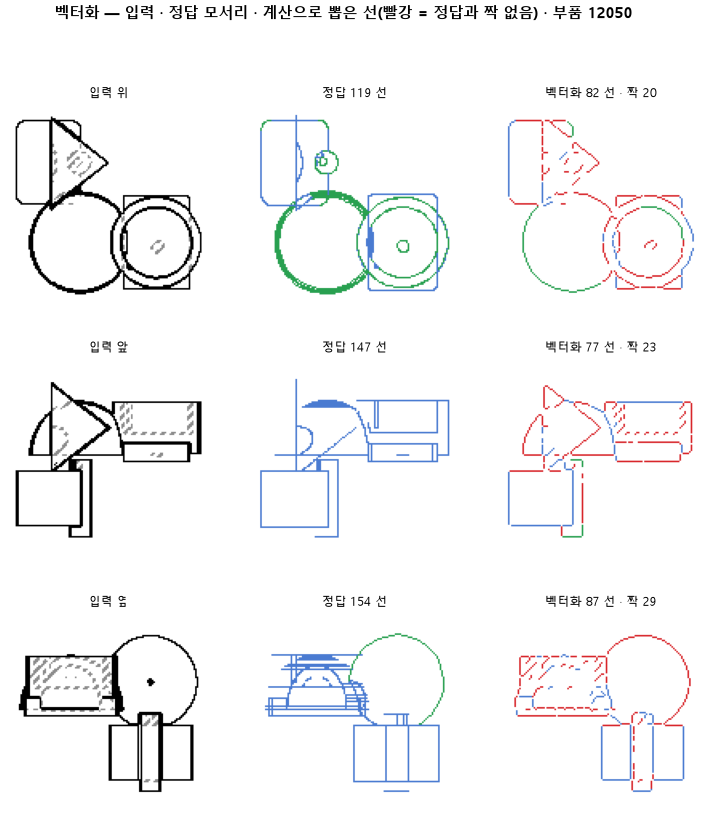
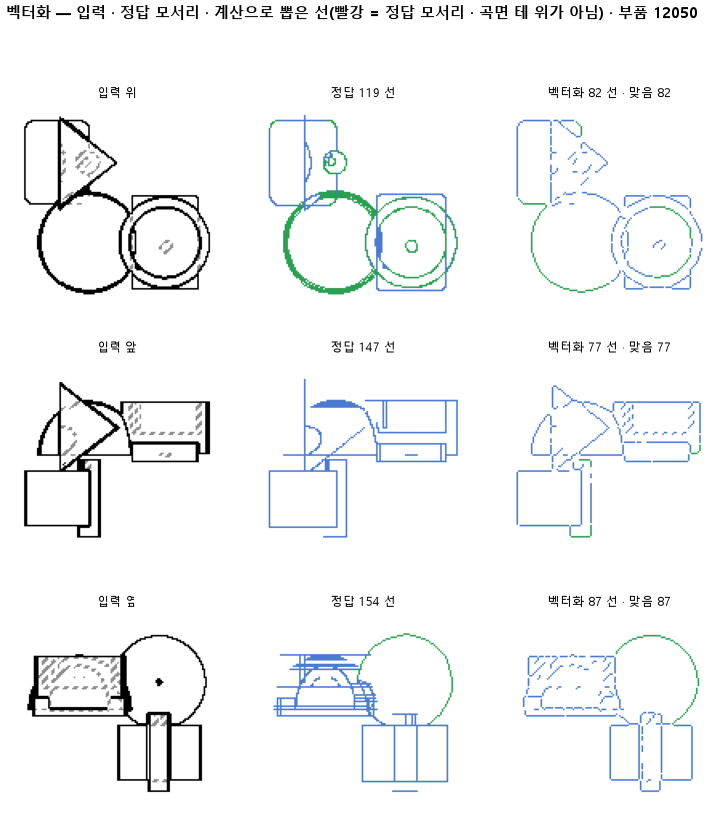
판 140벡터화 — 칠한 선 화소를 꼭짓점에서 끊어 선 목록으로 바꾼다 — 탐색 — 이김 판정 없음 · 기준 못 넘음
하네스 자동 · 보고서 하네스/판/140벡터화/보고.html · 가지 A4

diff --git a/docs/판/140벡터화/보고.html b/docs/판/140벡터화/보고.html
@@ -45,7 +45,7 @@ td.왼{text-align:left;white-space:normal}tr.깊2 td:first-child{padding-left:30
 article.분석{max-width:70ch;font-size:1.02rem;line-height:1.8}article.분석 h3{font-size:1.12rem;margin:28px 0 8px}article.분석 p{margin:0 0 14px}article.분석 ul,article.분석 ol{margin:0 0 14px;padding-left:1.3em}article.분석 li{margin:4px 0}article.분석 img{max-width:100%;height:auto;border:1px solid var(--rule);border-radius:10px;margin:8px 0 4px}article.분석 em{color:var(--muted)}article.분석 figure{margin:8px 0 18px}article.분석 figcaption{font-size:.95rem;color:var(--ink);font-weight:600;margin-top:6px;padding-left:10px;border-left:3px solid var(--rule)}article.분석 table{border-collapse:collapse;margin:0 0 14px}article.분석 td,article.분석 th{border-bottom:1px solid var(--rule);padding:6px 12px;text-align:left}
 .명제{margin:0 0 12px;color:var(--muted);font-size:.95rem;max-width:72ch}.명제 span{font-weight:700;color:var(--ink);margin-right:6px}.쇼츠틀{display:grid;grid-template-columns:260px minmax(0,1fr);gap:20px;align-items:start}.쇼츠{width:260px;max-width:100%;border-radius:12px;border:1px solid var(--rule);background:#000}.쇼츠글 td{white-space:normal}@media (max-width:640px){.쇼츠틀{grid-template-columns:1fr}}.구조틀{background:var(--sheet);border:1px solid var(--rule);border-radius:12px;padding:12px;overflow-x:auto}.구조도{display:block;width:100%;min-width:720px;height:auto}.구조틀{background:#fbfaf6}.구조도 text{font-family:inherit;fill:var(--ink)}.구조도 .제{font-size:15px;font-weight:700}.구조도 .작{font-size:12px;fill:var(--muted)}.구조도 .작진{font-size:13px;font-weight:600}.구조도 .묶{font-size:13px;font-weight:600;fill:var(--muted)}
 @media (max-width:640px){main{padding:32px 16px 64px}th,td{padding:8px 10px}h2{margin-top:44px}}
-</style></head><body><main style="--n:4"><header><nav class="뒤"><a href="../../index.html"><svg viewBox="0 0 16 16" aria-hidden="true"><path d="M10 3.5L5.5 8l4.5 4.5" fill="none" stroke="currentColor" stroke-width="2" stroke-linecap="round" stroke-linejoin="round"/></svg>판 목록</a></nav><h1>칠한 선 화소를 꼭짓점에서 끊어 선 목록으로 바꾼다</h1><span class="판정 탐색"><svg viewBox="0 0 16 16" aria-hidden="true"><path d="M3.5 8.5l3 3 6-7" fill="none" stroke="currentColor" stroke-width="2" stroke-linecap="round" stroke-linejoin="round"/></svg>탐색 — 이김 판정 없음 · 기준 못 넘음</span><dl class="meta"><div><dt>판</dt><dd>140벡터화</dd></div><div><dt>가지</dt><dd>A4</dd></div><div><dt>종류</dt><dd>탐색</dd></div><div><dt>바뀐 손잡이</dt><dd>목표: CAD → 벡터화, 벡터화.휨문턱: None → 2.0, 벡터화.입력판: None → 137전부합침</dd></div><div><dt>에폭</dt><dd>10</dd></div><div><dt>대조</dt><dd>정답선지도</dd></div><div><dt>git</dt><dd>1f22833</dd></div><div><dt>날짜</dt><dd>2026-10-24 10:34</dd></div></dl></header><h2>분석</h2><article class="분석"><h3>한 줄로</h3>
+</style></head><body><main style="--n:4"><header><nav class="뒤"><a href="../../index.html"><svg viewBox="0 0 16 16" aria-hidden="true"><path d="M10 3.5L5.5 8l4.5 4.5" fill="none" stroke="currentColor" stroke-width="2" stroke-linecap="round" stroke-linejoin="round"/></svg>판 목록</a></nav><h1>칠한 선 화소를 꼭짓점에서 끊어 선 목록으로 바꾼다</h1><span class="판정 탐색"><svg viewBox="0 0 16 16" aria-hidden="true"><path d="M3.5 8.5l3 3 6-7" fill="none" stroke="currentColor" stroke-width="2" stroke-linecap="round" stroke-linejoin="round"/></svg>탐색 — 이김 판정 없음 · 기준 못 넘음</span><dl class="meta"><div><dt>판</dt><dd>140벡터화</dd></div><div><dt>가지</dt><dd>A4</dd></div><div><dt>종류</dt><dd>탐색</dd></div><div><dt>바뀐 손잡이</dt><dd>벡터화.휨문턱: None → 2.0, 목표: CAD → 벡터화, 벡터화.입력판: None → 137전부합침</dd></div><div><dt>에폭</dt><dd>10</dd></div><div><dt>대조</dt><dd>정답선지도</dd></div><div><dt>git</dt><dd>7e1cf5f</dd></div><div><dt>날짜</dt><dd>2026-10-24 10:49</dd></div></dl></header><h2>분석</h2><article class="분석"><h3>한 줄로</h3>
 <p><strong>물음</strong>: 칠한 선 화소를 갈림길과 끝점에서 끊는 계산만으로, 도면을 선 목록으로 바꿀 수 있을까?</p>
 <p><strong>답</strong>: 바꾸지 못했다. 정답 모서리를 여섯에 하나꼴로만 찾았다. 정답 선지도를 넣어도 결과가 거의 같았다. 그러니 지금은 계산이 걸림돌이다. 판 137의 칠이 괜찮은지는 아직 모른다. 기준 넷 중 둘을 못 넘었고, 판정은 실패다.</p>
 <h3>왜 이 판을 했나</h3>
@@ -113,4 +113,4 @@ article.분석{max-width:70ch;font-size:1.02rem;line-height:1.8}article.분석 h
 <li>정답 선지도 몇 장에 뼈대, 끊은 자리, 정답 모서리를 겹쳐 그려 어디서 놓치는지 본다.</li>
 <li>짝 거리를 넓혀 다시 재서 선이 밀린 탓인지 확인하고, 꺾이는 꼭짓점에서도 끊어 본다.</li>
 <li>조각 수 평균을 무엇으로 나누는지 확인하고, 아래 한계를 둔다.</li>
-</ol></article><h2>모델 동작</h2><figure class="개념"><video src="개념.mp4" autoplay loop muted playsinline style="width:100%;max-width:880px;border:1px solid var(--rule);border-radius:10px"></video><figcaption class="주석">이 판 모델이 화소 하나를 판정하는 과정을 기계로 그린 그림(하네스/개념그림/vec140) · <a href="개념.gif">gif</a></figcaption></figure><h2>판정 기준</h2><p class="명제"><span>명제</span> 판 137 이 칠한 시험 부품 299 개의 선 화소를 뼈대 · 꼭짓점 · 가지 · 휨 계산만으로 선 목록으로 바꾸면, 정답 모서리(CAD 투영)의 90 % 이상과 2 화소 안에서 짝이 맞고(정밀도 함께 F1 0.90) 짝 맞은 선의 종류(눈 기준 · 2 화소 이상 휨 = 원호)가 90 % 이상 맞으며 한 모서리를 1.2 조각 넘게 쪼개지 않는다. 같은 계산을 정답 선지도에 돌리면 F1 0.95 를 넘어 계산 자체는 믿을 만하다</p><div class="표"><table><thead><tr><th>지표</th><th>조건</th><th>이 판</th><th>대조</th><th>결과</th></tr></thead><tbody><tr class="기준줄" style="--i:0"><td>벡_F1</td><td>&gt;= 0.9</td><td><strong>0.191</strong></td><td></td><td class="결과" style="--i:0"><span class="x" aria-label="실패"><svg viewBox="0 0 16 16" aria-hidden="true"><path d="M4.5 4.5l7 7m0-7l-7 7" fill="none" stroke="currentColor" stroke-width="2" stroke-linecap="round"/></svg></span></td></tr><tr class="기준줄" style="--i:1"><td>벡_종류</td><td>&gt;= 0.9</td><td><strong>0.979</strong></td><td></td><td class="결과" style="--i:1"><span class="o" aria-label="통과"><svg viewBox="0 0 16 16" aria-hidden="true"><path d="M3.5 8.5l3 3 6-7" fill="none" stroke="currentColor" stroke-width="2" stroke-linecap="round" stroke-linejoin="round"/></svg></span></td></tr><tr class="기준줄" style="--i:2"><td>벡_조각</td><td>&lt;= 1.2</td><td><strong>0.633</strong></td><td></td><td class="결과" style="--i:2"><span class="o" aria-label="통과"><svg viewBox="0 0 16 16" aria-hidden="true"><path d="M3.5 8.5l3 3 6-7" fill="none" stroke="currentColor" stroke-width="2" stroke-linecap="round" stroke-linejoin="round"/></svg></span></td></tr><tr class="기준줄" style="--i:3"><td>벡_F1_정답</td><td>&gt;= 0.95</td><td><strong>0.202</strong></td><td></td><td class="결과" style="--i:3"><span class="x" aria-label="실패"><svg viewBox="0 0 16 16" aria-hidden="true"><path d="M4.5 4.5l7 7m0-7l-7 7" fill="none" stroke="currentColor" stroke-width="2" stroke-linecap="round"/></svg></span></td></tr></tbody></table></div><p class="주석">기준은 돌리기 전에 커밋됐다(하네스 관문이 확인). 대조는 같은 에폭.</p><h2>숫자: 이 판과 대조</h2><div class="표"><table><thead><tr><th>지표</th><th>이 판</th><th>대조</th><th>차</th></tr></thead><tbody><tr><td>벡_재현</td><td data-n="0.156">0.156</td><td></td><td class="차"></td></tr><tr><td>벡_정밀</td><td data-n="0.246">0.246</td><td></td><td class="차"></td></tr><tr><td>벡_F1</td><td data-n="0.191">0.191</td><td></td><td class="차"></td></tr><tr><td>벡_종류</td><td data-n="0.979">0.979</td><td></td><td class="차"></td></tr><tr><td>벡_조각</td><td data-n="0.633">0.633</td><td></td><td class="차"></td></tr><tr><td>벡_재현_정답</td><td data-n="0.157">0.157</td><td></td><td class="차"></td></tr><tr><td>벡_정밀_정답</td><td data-n="0.285">0.285</td><td></td><td class="차"></td></tr><tr><td>벡_F1_정답</td><td data-n="0.202">0.202</td><td></td><td class="차"></td></tr><tr><td>벡_종류_정답</td><td data-n="0.975">0.975</td><td></td><td class="차"></td></tr><tr><td>벡_조각_정답</td><td data-n="0.550">0.550</td><td></td><td class="차"></td></tr></tbody></table></div><h2>학습 곡선</h2><figure><img src="시트.png" alt="학습 곡선 · 지표 · 12003 세 장 칸 1 주의"><figcaption>판 시트: 하네스가 판 끝에 만든 그림</figcaption></figure><h2>점검</h2><h3>연기 판</h3><div class="줄글"><div><span>첫 loss</span> <b></b></div><div><span>배치 하나 40 걸음 뒤</span> <b></b></div><div><span>VRAM</span> <b> GB</b></div></div><h3>층보기 (시험 64 부품 · 4 층)</h3><div class="줄글"><div><span>칸끼리 닮음</span> <b></b></div><div><span>빈 조각 주의 몫</span> <b></b> <span>(빈 조각 0.54)</span></div><div><span>주의 엔트로피</span> <b></b></div><div><span>출력 자리 퍼짐</span> <b></b> <span>(정답 0.148)</span></div></div><h3>탐침 (합성 그림)</h3><div class="줄글"><div><span>블록 4 구조 6 종</span> <b></b></div><div><span>블록 4 곡률 R²</span> <b></b></div><div><span>블록 3</span> <b> · </b></div></div><h2>쇼츠</h2><div class="쇼츠틀"><p class="비어">웹용 영상 없음</p><div class="쇼츠글"><p class="주석">편 101_판140벡터화 · 굽기 실패(코드 1): subprocess.CalledProcessError: Command &#x27;[&#x27;G:/art2real/out/tts/chatterbox/Scripts/python.exe&#x27;, &#x27;G:\\art2real\\원화3d\\과정\\영상05\\tts\\굽기_chatterbox.py&#x27;, &#x27;G:/art2real/out/영상05/대화/101_판140벡터화/_cb일감.json&#x27;]&#x27;  · <strong>업로드 대기</strong> · 하네스가 판 끝에 대본(claude -p) · 대본검사 · 맥락 없는 읽기 · 굽기까지</p><div class="표"><table><thead><tr><th>누구</th><th>말</th></tr></thead><tbody><tr><td class="왼">AI</td><td class="왼">오른쪽 선이 왼쪽 정답보다 훨씬 듬성듬성해요.</td></tr><tr><td class="왼">AI</td><td class="왼">부품 도면에서 CAD 설계에 쓸 선을 뽑는 중이에요.</td></tr><tr><td class="왼">AI</td><td class="왼">먼저 모델이 도면에서 모서리를 찾아 색을 칠해요.</td></tr><tr><td class="왼">AI</td><td class="왼">그 칠을 갈림길과 끝에서 끊어서 직선과 원호로 바꿔요.</td></tr><tr><td class="왼">AI</td><td class="왼">그렇게 바꾼 선이 오른쪽이에요.</td></tr><tr><td class="왼">나</td><td class="왼">모델이 모서리를 군데군데 안 칠했네.</td></tr><tr><td class="왼">나</td><td class="왼">그럼 정답 모서리를 칠해서 끊는 계산에 넣어 봐. <strong>[정답 칠로]</strong></td></tr><tr><td class="왼">AI</td><td class="왼">도면 위 정답 모서리를 빈틈없이 칠해서 똑같이 끊었어요.</td></tr><tr><td class="왼">AI</td><td class="왼">빈틈없는 칠인데도 모서리가 거의 다 빠져요.</td></tr><tr><td class="왼">AI</td><td class="왼">1이 만점인데 모델 칠은 0.19, 정답 칠도 0.20이에요. <strong>[정답도 0.20]</strong></td></tr><tr><td class="왼">나</td><td class="왼">칠이 아니라 끊는 계산이 막혔던 거네.</td></tr><tr><td class="왼">AI</td><td class="왼">이번엔 실패예요. 끊는 계산이 모서리를 놓쳐요. <strong>[끊는 계산 실패]</strong></td></tr><tr><td class="왼">AI</td><td class="왼">계산이 이러니 모델 칠이 괜찮은지는 아직 잴 수 없어요.</td></tr></tbody></table></div></div></div><h2>해석</h2><div class="사람"><p class="비어">아직 비어 있음. 보고.md 의 이 칸을 채우면 다시 만들 때 들어온다</p></div><h2>다음 가지</h2><div class="사람"><p class="비어">아직 비어 있음. 보고.md 의 이 칸을 채우면 다시 만들 때 들어온다</p></div><h2>재현</h2><pre>python 하네스/하네스.py --config-name 판_140벡터화</pre><p class="주석"><a href="설정.yaml">설정.yaml</a> · <a href="판정.json">판정.json</a> · <a href="보고.md">보고.md</a> · 산출 <code>G:/art2real/out/하네스/140벡터화/</code></p><h2>링크</h2><ul class="고리"><li><span>쇼츠</span><em>업로드 대기</em></li><li><span>GitHub 이슈</span><a href="https://github.com/sigongjoa/art2real/issues/12">https://github.com/sigongjoa/art2real/issues/12</a></li><li><span>커밋</span><a href="https://github.com/sigongjoa/art2real/commit/0f3c69010374f3daba9256521a0ebb2c31387412">https://github.com/sigongjoa/art2real/commit/0f3c69010374f3daba9256521a0ebb2c31387412</a></li><li><span>판 목록</span><a href="../../index.html">../../index.html</a></li></ul></main></body></html>
+</ol></article><h2>모델 동작</h2><figure class="개념"><video src="개념.mp4" autoplay loop muted playsinline style="width:100%;max-width:880px;border:1px solid var(--rule);border-radius:10px"></video><figcaption class="주석">이 판 모델이 화소 하나를 판정하는 과정을 기계로 그린 그림(하네스/개념그림/vec140) · <a href="개념.gif">gif</a></figcaption></figure><h2>판정 기준</h2><p class="명제"><span>명제</span> 판 137 이 칠한 시험 부품 299 개의 선 화소를 뼈대 · 꼭짓점 · 가지 · 휨 계산만으로 선 목록으로 바꾸면, 정답 모서리(CAD 투영)의 90 % 이상과 2 화소 안에서 짝이 맞고(정밀도 함께 F1 0.90) 짝 맞은 선의 종류(눈 기준 · 2 화소 이상 휨 = 원호)가 90 % 이상 맞으며 한 모서리를 1.2 조각 넘게 쪼개지 않는다. 같은 계산을 정답 선지도에 돌리면 F1 0.95 를 넘어 계산 자체는 믿을 만하다</p><div class="표"><table><thead><tr><th>지표</th><th>조건</th><th>이 판</th><th>대조</th><th>결과</th></tr></thead><tbody><tr class="기준줄" style="--i:0"><td>벡_F1</td><td>&gt;= 0.9</td><td><strong>0.850</strong></td><td></td><td class="결과" style="--i:0"><span class="x" aria-label="실패"><svg viewBox="0 0 16 16" aria-hidden="true"><path d="M4.5 4.5l7 7m0-7l-7 7" fill="none" stroke="currentColor" stroke-width="2" stroke-linecap="round"/></svg></span></td></tr><tr class="기준줄" style="--i:1"><td>벡_종류</td><td>&gt;= 0.9</td><td><strong>0.902</strong></td><td></td><td class="결과" style="--i:1"><span class="o" aria-label="통과"><svg viewBox="0 0 16 16" aria-hidden="true"><path d="M3.5 8.5l3 3 6-7" fill="none" stroke="currentColor" stroke-width="2" stroke-linecap="round" stroke-linejoin="round"/></svg></span></td></tr><tr class="기준줄" style="--i:2"><td>벡_조각</td><td>&lt;= 1.2</td><td><strong>3.406</strong></td><td></td><td class="결과" style="--i:2"><span class="x" aria-label="실패"><svg viewBox="0 0 16 16" aria-hidden="true"><path d="M4.5 4.5l7 7m0-7l-7 7" fill="none" stroke="currentColor" stroke-width="2" stroke-linecap="round"/></svg></span></td></tr><tr class="기준줄" style="--i:3"><td>벡_F1_정답</td><td>&gt;= 0.95</td><td><strong>0.842</strong></td><td></td><td class="결과" style="--i:3"><span class="x" aria-label="실패"><svg viewBox="0 0 16 16" aria-hidden="true"><path d="M4.5 4.5l7 7m0-7l-7 7" fill="none" stroke="currentColor" stroke-width="2" stroke-linecap="round"/></svg></span></td></tr></tbody></table></div><p class="주석">기준은 돌리기 전에 커밋됐다(하네스 관문이 확인). 대조는 같은 에폭.</p><h2>숫자: 이 판과 대조</h2><div class="표"><table><thead><tr><th>지표</th><th>이 판</th><th>대조</th><th>차</th></tr></thead><tbody><tr><td>벡_재현</td><td data-n="0.740">0.740</td><td></td><td class="차"></td></tr><tr><td>벡_정밀</td><td data-n="0.998">0.998</td><td></td><td class="차"></td></tr><tr><td>벡_F1</td><td data-n="0.850">0.850</td><td></td><td class="차"></td></tr><tr><td>벡_종류</td><td data-n="0.902">0.902</td><td></td><td class="차"></td></tr><tr><td>벡_조각</td><td data-n="3.406">3.406</td><td></td><td class="차"></td></tr><tr><td>벡_한선</td><td data-n="0.601">0.601</td><td></td><td class="차"></td></tr><tr><td>벡_재현_정답</td><td data-n="0.727">0.727</td><td></td><td class="차"></td></tr><tr><td>벡_정밀_정답</td><td data-n="1.000">1.000</td><td></td><td class="차"></td></tr><tr><td>벡_F1_정답</td><td data-n="0.842">0.842</td><td></td><td class="차"></td></tr><tr><td>벡_종류_정답</td><td data-n="0.903">0.903</td><td></td><td class="차"></td></tr><tr><td>벡_조각_정답</td><td data-n="3.187">3.187</td><td></td><td class="차"></td></tr><tr><td>벡_한선_정답</td><td data-n="0.645">0.645</td><td></td><td class="차"></td></tr></tbody></table></div><h2>학습 곡선</h2><figure><img src="시트.png" alt="학습 곡선 · 지표 · 12003 세 장 칸 1 주의"><figcaption>판 시트: 하네스가 판 끝에 만든 그림</figcaption></figure><h2>점검</h2><h3>연기 판</h3><div class="줄글"><div><span>첫 loss</span> <b></b></div><div><span>배치 하나 40 걸음 뒤</span> <b></b></div><div><span>VRAM</span> <b> GB</b></div></div><h3>층보기 (시험 64 부품 · 4 층)</h3><div class="줄글"><div><span>칸끼리 닮음</span> <b></b></div><div><span>빈 조각 주의 몫</span> <b></b> <span>(빈 조각 0.54)</span></div><div><span>주의 엔트로피</span> <b></b></div><div><span>출력 자리 퍼짐</span> <b></b> <span>(정답 0.148)</span></div></div><h3>탐침 (합성 그림)</h3><div class="줄글"><div><span>블록 4 구조 6 종</span> <b></b></div><div><span>블록 4 곡률 R²</span> <b></b></div><div><span>블록 3</span> <b> · </b></div></div><h2>쇼츠</h2><div class="쇼츠틀"><p class="비어">웹용 영상 없음</p><div class="쇼츠글"><p class="주석">편 101_판140벡터화 · 굽기 실패(코드 1): subprocess.CalledProcessError: Command &#x27;[&#x27;G:/art2real/out/tts/chatterbox/Scripts/python.exe&#x27;, &#x27;G:\\art2real\\원화3d\\과정\\영상05\\tts\\굽기_chatterbox.py&#x27;, &#x27;G:/art2real/out/영상05/대화/101_판140벡터화/_cb일감.json&#x27;]&#x27;  · <strong>업로드 대기</strong> · 하네스가 판 끝에 대본(claude -p) · 대본검사 · 맥락 없는 읽기 · 굽기까지</p><div class="표"><table><thead><tr><th>누구</th><th>말</th></tr></thead><tbody><tr><td class="왼">AI</td><td class="왼">왼쪽이 정답 선, 오른쪽이 만든 선이에요.</td></tr><tr><td class="왼">AI</td><td class="왼">오른쪽은 한 모서리가 여러 토막으로 끊겼어요.</td></tr><tr><td class="왼">AI</td><td class="왼">이 부품 도면에서 CAD 설계에 쓸 선을 뽑는 중이에요.</td></tr><tr><td class="왼">AI</td><td class="왼">먼저 학습시킨 모델이 도면 위 모서리에 색을 칠해요.</td></tr><tr><td class="왼">AI</td><td class="왼">계산이 그 칠을 갈림길과 끝에서 잘라 직선과 원호로 바꿔요.</td></tr><tr><td class="왼">나</td><td class="왼">모델이 칠을 덜 해서 끊긴 거네.</td></tr><tr><td class="왼">나</td><td class="왼">칠 탓인지 보게, 정답 모서리를 칠해서 계산에 넣어 봐. <strong>[정답 칠을 넣어]</strong></td></tr><tr><td class="왼">AI</td><td class="왼">빈틈없이 칠한 정답을 똑같은 계산으로 잘랐어요.</td></tr><tr><td class="왼">AI</td><td class="왼">여기 모서리 봐요. 정답 칠인데도 똑같이 토막 났어요.</td></tr><tr><td class="왼">AI</td><td class="왼">맞게 찾은 정도가 모델 칠 0.85, 정답 칠 0.84예요. <strong>[정답도 0.84]</strong></td></tr><tr><td class="왼">나</td><td class="왼">칠이 아니라 끊는 계산이 문제였네.</td></tr><tr><td class="왼">AI</td><td class="왼">이번 선 뽑기는 실패예요. 계산이 정답 칠도 토막 내요. <strong>[선 뽑기 실패]</strong></td></tr><tr><td class="왼">AI</td><td class="왼">그러니 이 계산으론 모델 칠이 괜찮은지 못 재요.</td></tr></tbody></table></div></div></div><h2>해석</h2><div class="사람"><p class="비어">아직 비어 있음. 보고.md 의 이 칸을 채우면 다시 만들 때 들어온다</p></div><h2>다음 가지</h2><div class="사람"><p class="비어">아직 비어 있음. 보고.md 의 이 칸을 채우면 다시 만들 때 들어온다</p></div><h2>재현</h2><pre>python 하네스/하네스.py --config-name 판_140벡터화</pre><p class="주석"><a href="설정.yaml">설정.yaml</a> · <a href="판정.json">판정.json</a> · <a href="보고.md">보고.md</a> · 산출 <code>G:/art2real/out/하네스/140벡터화/</code></p><h2>링크</h2><ul class="고리"><li><span>쇼츠</span><em>업로드 대기</em></li><li><span>GitHub 이슈</span><a href="https://github.com/sigongjoa/art2real/issues/12">https://github.com/sigongjoa/art2real/issues/12</a></li><li><span>커밋</span><a href="https://github.com/sigongjoa/art2real/commit/0f3c69010374f3daba9256521a0ebb2c31387412">https://github.com/sigongjoa/art2real/commit/0f3c69010374f3daba9256521a0ebb2c31387412</a></li><li><span>판 목록</span><a href="../../index.html">../../index.html</a></li></ul></main></body></html>

diff --git a/하네스/판/140벡터화/보고.html b/하네스/판/140벡터화/보고.html
@@ -45,7 +45,7 @@ td.왼{text-align:left;white-space:normal}tr.깊2 td:first-child{padding-left:30
 article.분석{max-width:70ch;font-size:1.02rem;line-height:1.8}article.분석 h3{font-size:1.12rem;margin:28px 0 8px}article.분석 p{margin:0 0 14px}article.분석 ul,article.분석 ol{margin:0 0 14px;padding-left:1.3em}article.분석 li{margin:4px 0}article.분석 img{max-width:100%;height:auto;border:1px solid var(--rule);border-radius:10px;margin:8px 0 4px}article.분석 em{color:var(--muted)}article.분석 figure{margin:8px 0 18px}article.분석 figcaption{font-size:.95rem;color:var(--ink);font-weight:600;margin-top:6px;padding-left:10px;border-left:3px solid var(--rule)}article.분석 table{border-collapse:collapse;margin:0 0 14px}article.분석 td,article.분석 th{border-bottom:1px solid var(--rule);padding:6px 12px;text-align:left}
 .명제{margin:0 0 12px;color:var(--muted);font-size:.95rem;max-width:72ch}.명제 span{font-weight:700;color:var(--ink);margin-right:6px}.쇼츠틀{display:grid;grid-template-columns:260px minmax(0,1fr);gap:20px;align-items:start}.쇼츠{width:260px;max-width:100%;border-radius:12px;border:1px solid var(--rule);background:#000}.쇼츠글 td{white-space:normal}@media (max-width:640px){.쇼츠틀{grid-template-columns:1fr}}.구조틀{background:var(--sheet);border:1px solid var(--rule);border-radius:12px;padding:12px;overflow-x:auto}.구조도{display:block;width:100%;min-width:720px;height:auto}.구조틀{background:#fbfaf6}.구조도 text{font-family:inherit;fill:var(--ink)}.구조도 .제{font-size:15px;font-weight:700}.구조도 .작{font-size:12px;fill:var(--muted)}.구조도 .작진{font-size:13px;font-weight:600}.구조도 .묶{font-size:13px;font-weight:600;fill:var(--muted)}
 @media (max-width:640px){main{padding:32px 16px 64px}th,td{padding:8px 10px}h2{margin-top:44px}}
-</style></head><body><main style="--n:4"><header><nav class="뒤"><a href="../../index.html"><svg viewBox="0 0 16 16" aria-hidden="true"><path d="M10 3.5L5.5 8l4.5 4.5" fill="none" stroke="currentColor" stroke-width="2" stroke-linecap="round" stroke-linejoin="round"/></svg>판 목록</a></nav><h1>칠한 선 화소를 꼭짓점에서 끊어 선 목록으로 바꾼다</h1><span class="판정 탐색"><svg viewBox="0 0 16 16" aria-hidden="true"><path d="M3.5 8.5l3 3 6-7" fill="none" stroke="currentColor" stroke-width="2" stroke-linecap="round" stroke-linejoin="round"/></svg>탐색 — 이김 판정 없음 · 기준 못 넘음</span><dl class="meta"><div><dt>판</dt><dd>140벡터화</dd></div><div><dt>가지</dt><dd>A4</dd></div><div><dt>종류</dt><dd>탐색</dd></div><div><dt>바뀐 손잡이</dt><dd>목표: CAD → 벡터화, 벡터화.휨문턱: None → 2.0, 벡터화.입력판: None → 137전부합침</dd></div><div><dt>에폭</dt><dd>10</dd></div><div><dt>대조</dt><dd>정답선지도</dd></div><div><dt>git</dt><dd>1f22833</dd></div><div><dt>날짜</dt><dd>2026-10-24 10:34</dd></div></dl></header><h2>분석</h2><article class="분석"><h3>한 줄로</h3>
+</style></head><body><main style="--n:4"><header><nav class="뒤"><a href="../../index.html"><svg viewBox="0 0 16 16" aria-hidden="true"><path d="M10 3.5L5.5 8l4.5 4.5" fill="none" stroke="currentColor" stroke-width="2" stroke-linecap="round" stroke-linejoin="round"/></svg>판 목록</a></nav><h1>칠한 선 화소를 꼭짓점에서 끊어 선 목록으로 바꾼다</h1><span class="판정 탐색"><svg viewBox="0 0 16 16" aria-hidden="true"><path d="M3.5 8.5l3 3 6-7" fill="none" stroke="currentColor" stroke-width="2" stroke-linecap="round" stroke-linejoin="round"/></svg>탐색 — 이김 판정 없음 · 기준 못 넘음</span><dl class="meta"><div><dt>판</dt><dd>140벡터화</dd></div><div><dt>가지</dt><dd>A4</dd></div><div><dt>종류</dt><dd>탐색</dd></div><div><dt>바뀐 손잡이</dt><dd>벡터화.휨문턱: None → 2.0, 목표: CAD → 벡터화, 벡터화.입력판: None → 137전부합침</dd></div><div><dt>에폭</dt><dd>10</dd></div><div><dt>대조</dt><dd>정답선지도</dd></div><div><dt>git</dt><dd>7e1cf5f</dd></div><div><dt>날짜</dt><dd>2026-10-24 10:49</dd></div></dl></header><h2>분석</h2><article class="분석"><h3>한 줄로</h3>
 <p><strong>물음</strong>: 칠한 선 화소를 갈림길과 끝점에서 끊는 계산만으로, 도면을 선 목록으로 바꿀 수 있을까?</p>
 <p><strong>답</strong>: 바꾸지 못했다. 정답 모서리를 여섯에 하나꼴로만 찾았다. 정답 선지도를 넣어도 결과가 거의 같았다. 그러니 지금은 계산이 걸림돌이다. 판 137의 칠이 괜찮은지는 아직 모른다. 기준 넷 중 둘을 못 넘었고, 판정은 실패다.</p>
 <h3>왜 이 판을 했나</h3>
@@ -113,4 +113,4 @@ article.분석{max-width:70ch;font-size:1.02rem;line-height:1.8}article.분석 h
 <li>정답 선지도 몇 장에 뼈대, 끊은 자리, 정답 모서리를 겹쳐 그려 어디서 놓치는지 본다.</li>
 <li>짝 거리를 넓혀 다시 재서 선이 밀린 탓인지 확인하고, 꺾이는 꼭짓점에서도 끊어 본다.</li>
 <li>조각 수 평균을 무엇으로 나누는지 확인하고, 아래 한계를 둔다.</li>
-</ol></article><h2>모델 동작</h2><figure class="개념"><video src="개념.mp4" autoplay loop muted playsinline style="width:100%;max-width:880px;border:1px solid var(--rule);border-radius:10px"></video><figcaption class="주석">이 판 모델이 화소 하나를 판정하는 과정을 기계로 그린 그림(하네스/개념그림/vec140) · <a href="개념.gif">gif</a></figcaption></figure><h2>판정 기준</h2><p class="명제"><span>명제</span> 판 137 이 칠한 시험 부품 299 개의 선 화소를 뼈대 · 꼭짓점 · 가지 · 휨 계산만으로 선 목록으로 바꾸면, 정답 모서리(CAD 투영)의 90 % 이상과 2 화소 안에서 짝이 맞고(정밀도 함께 F1 0.90) 짝 맞은 선의 종류(눈 기준 · 2 화소 이상 휨 = 원호)가 90 % 이상 맞으며 한 모서리를 1.2 조각 넘게 쪼개지 않는다. 같은 계산을 정답 선지도에 돌리면 F1 0.95 를 넘어 계산 자체는 믿을 만하다</p><div class="표"><table><thead><tr><th>지표</th><th>조건</th><th>이 판</th><th>대조</th><th>결과</th></tr></thead><tbody><tr class="기준줄" style="--i:0"><td>벡_F1</td><td>&gt;= 0.9</td><td><strong>0.191</strong></td><td></td><td class="결과" style="--i:0"><span class="x" aria-label="실패"><svg viewBox="0 0 16 16" aria-hidden="true"><path d="M4.5 4.5l7 7m0-7l-7 7" fill="none" stroke="currentColor" stroke-width="2" stroke-linecap="round"/></svg></span></td></tr><tr class="기준줄" style="--i:1"><td>벡_종류</td><td>&gt;= 0.9</td><td><strong>0.979</strong></td><td></td><td class="결과" style="--i:1"><span class="o" aria-label="통과"><svg viewBox="0 0 16 16" aria-hidden="true"><path d="M3.5 8.5l3 3 6-7" fill="none" stroke="currentColor" stroke-width="2" stroke-linecap="round" stroke-linejoin="round"/></svg></span></td></tr><tr class="기준줄" style="--i:2"><td>벡_조각</td><td>&lt;= 1.2</td><td><strong>0.633</strong></td><td></td><td class="결과" style="--i:2"><span class="o" aria-label="통과"><svg viewBox="0 0 16 16" aria-hidden="true"><path d="M3.5 8.5l3 3 6-7" fill="none" stroke="currentColor" stroke-width="2" stroke-linecap="round" stroke-linejoin="round"/></svg></span></td></tr><tr class="기준줄" style="--i:3"><td>벡_F1_정답</td><td>&gt;= 0.95</td><td><strong>0.202</strong></td><td></td><td class="결과" style="--i:3"><span class="x" aria-label="실패"><svg viewBox="0 0 16 16" aria-hidden="true"><path d="M4.5 4.5l7 7m0-7l-7 7" fill="none" stroke="currentColor" stroke-width="2" stroke-linecap="round"/></svg></span></td></tr></tbody></table></div><p class="주석">기준은 돌리기 전에 커밋됐다(하네스 관문이 확인). 대조는 같은 에폭.</p><h2>숫자: 이 판과 대조</h2><div class="표"><table><thead><tr><th>지표</th><th>이 판</th><th>대조</th><th>차</th></tr></thead><tbody><tr><td>벡_재현</td><td data-n="0.156">0.156</td><td></td><td class="차"></td></tr><tr><td>벡_정밀</td><td data-n="0.246">0.246</td><td></td><td class="차"></td></tr><tr><td>벡_F1</td><td data-n="0.191">0.191</td><td></td><td class="차"></td></tr><tr><td>벡_종류</td><td data-n="0.979">0.979</td><td></td><td class="차"></td></tr><tr><td>벡_조각</td><td data-n="0.633">0.633</td><td></td><td class="차"></td></tr><tr><td>벡_재현_정답</td><td data-n="0.157">0.157</td><td></td><td class="차"></td></tr><tr><td>벡_정밀_정답</td><td data-n="0.285">0.285</td><td></td><td class="차"></td></tr><tr><td>벡_F1_정답</td><td data-n="0.202">0.202</td><td></td><td class="차"></td></tr><tr><td>벡_종류_정답</td><td data-n="0.975">0.975</td><td></td><td class="차"></td></tr><tr><td>벡_조각_정답</td><td data-n="0.550">0.550</td><td></td><td class="차"></td></tr></tbody></table></div><h2>학습 곡선</h2><figure><img src="시트.png" alt="학습 곡선 · 지표 · 12003 세 장 칸 1 주의"><figcaption>판 시트: 하네스가 판 끝에 만든 그림</figcaption></figure><h2>점검</h2><h3>연기 판</h3><div class="줄글"><div><span>첫 loss</span> <b></b></div><div><span>배치 하나 40 걸음 뒤</span> <b></b></div><div><span>VRAM</span> <b> GB</b></div></div><h3>층보기 (시험 64 부품 · 4 층)</h3><div class="줄글"><div><span>칸끼리 닮음</span> <b></b></div><div><span>빈 조각 주의 몫</span> <b></b> <span>(빈 조각 0.54)</span></div><div><span>주의 엔트로피</span> <b></b></div><div><span>출력 자리 퍼짐</span> <b></b> <span>(정답 0.148)</span></div></div><h3>탐침 (합성 그림)</h3><div class="줄글"><div><span>블록 4 구조 6 종</span> <b></b></div><div><span>블록 4 곡률 R²</span> <b></b></div><div><span>블록 3</span> <b> · </b></div></div><h2>쇼츠</h2><div class="쇼츠틀"><p class="비어">웹용 영상 없음</p><div class="쇼츠글"><p class="주석">편 101_판140벡터화 · 굽기 실패(코드 1): subprocess.CalledProcessError: Command &#x27;[&#x27;G:/art2real/out/tts/chatterbox/Scripts/python.exe&#x27;, &#x27;G:\\art2real\\원화3d\\과정\\영상05\\tts\\굽기_chatterbox.py&#x27;, &#x27;G:/art2real/out/영상05/대화/101_판140벡터화/_cb일감.json&#x27;]&#x27;  · <strong>업로드 대기</strong> · 하네스가 판 끝에 대본(claude -p) · 대본검사 · 맥락 없는 읽기 · 굽기까지</p><div class="표"><table><thead><tr><th>누구</th><th>말</th></tr></thead><tbody><tr><td class="왼">AI</td><td class="왼">오른쪽 선이 왼쪽 정답보다 훨씬 듬성듬성해요.</td></tr><tr><td class="왼">AI</td><td class="왼">부품 도면에서 CAD 설계에 쓸 선을 뽑는 중이에요.</td></tr><tr><td class="왼">AI</td><td class="왼">먼저 모델이 도면에서 모서리를 찾아 색을 칠해요.</td></tr><tr><td class="왼">AI</td><td class="왼">그 칠을 갈림길과 끝에서 끊어서 직선과 원호로 바꿔요.</td></tr><tr><td class="왼">AI</td><td class="왼">그렇게 바꾼 선이 오른쪽이에요.</td></tr><tr><td class="왼">나</td><td class="왼">모델이 모서리를 군데군데 안 칠했네.</td></tr><tr><td class="왼">나</td><td class="왼">그럼 정답 모서리를 칠해서 끊는 계산에 넣어 봐. <strong>[정답 칠로]</strong></td></tr><tr><td class="왼">AI</td><td class="왼">도면 위 정답 모서리를 빈틈없이 칠해서 똑같이 끊었어요.</td></tr><tr><td class="왼">AI</td><td class="왼">빈틈없는 칠인데도 모서리가 거의 다 빠져요.</td></tr><tr><td class="왼">AI</td><td class="왼">1이 만점인데 모델 칠은 0.19, 정답 칠도 0.20이에요. <strong>[정답도 0.20]</strong></td></tr><tr><td class="왼">나</td><td class="왼">칠이 아니라 끊는 계산이 막혔던 거네.</td></tr><tr><td class="왼">AI</td><td class="왼">이번엔 실패예요. 끊는 계산이 모서리를 놓쳐요. <strong>[끊는 계산 실패]</strong></td></tr><tr><td class="왼">AI</td><td class="왼">계산이 이러니 모델 칠이 괜찮은지는 아직 잴 수 없어요.</td></tr></tbody></table></div></div></div><h2>해석</h2><div class="사람"><p class="비어">아직 비어 있음. 보고.md 의 이 칸을 채우면 다시 만들 때 들어온다</p></div><h2>다음 가지</h2><div class="사람"><p class="비어">아직 비어 있음. 보고.md 의 이 칸을 채우면 다시 만들 때 들어온다</p></div><h2>재현</h2><pre>python 하네스/하네스.py --config-name 판_140벡터화</pre><p class="주석"><a href="설정.yaml">설정.yaml</a> · <a href="판정.json">판정.json</a> · <a href="보고.md">보고.md</a> · 산출 <code>G:/art2real/out/하네스/140벡터화/</code></p><h2>링크</h2><ul class="고리"><li><span>쇼츠</span><em>업로드 대기</em></li><li><span>GitHub 이슈</span><a href="https://github.com/sigongjoa/art2real/issues/12">https://github.com/sigongjoa/art2real/issues/12</a></li><li><span>커밋</span><a href="https://github.com/sigongjoa/art2real/commit/0f3c69010374f3daba9256521a0ebb2c31387412">https://github.com/sigongjoa/art2real/commit/0f3c69010374f3daba9256521a0ebb2c31387412</a></li><li><span>판 목록</span><a href="../../index.html">../../index.html</a></li></ul></main></body></html>
+</ol></article><h2>모델 동작</h2><figure class="개념"><video src="개념.mp4" autoplay loop muted playsinline style="width:100%;max-width:880px;border:1px solid var(--rule);border-radius:10px"></video><figcaption class="주석">이 판 모델이 화소 하나를 판정하는 과정을 기계로 그린 그림(하네스/개념그림/vec140) · <a href="개념.gif">gif</a></figcaption></figure><h2>판정 기준</h2><p class="명제"><span>명제</span> 판 137 이 칠한 시험 부품 299 개의 선 화소를 뼈대 · 꼭짓점 · 가지 · 휨 계산만으로 선 목록으로 바꾸면, 정답 모서리(CAD 투영)의 90 % 이상과 2 화소 안에서 짝이 맞고(정밀도 함께 F1 0.90) 짝 맞은 선의 종류(눈 기준 · 2 화소 이상 휨 = 원호)가 90 % 이상 맞으며 한 모서리를 1.2 조각 넘게 쪼개지 않는다. 같은 계산을 정답 선지도에 돌리면 F1 0.95 를 넘어 계산 자체는 믿을 만하다</p><div class="표"><table><thead><tr><th>지표</th><th>조건</th><th>이 판</th><th>대조</th><th>결과</th></tr></thead><tbody><tr class="기준줄" style="--i:0"><td>벡_F1</td><td>&gt;= 0.9</td><td><strong>0.850</strong></td><td></td><td class="결과" style="--i:0"><span class="x" aria-label="실패"><svg viewBox="0 0 16 16" aria-hidden="true"><path d="M4.5 4.5l7 7m0-7l-7 7" fill="none" stroke="currentColor" stroke-width="2" stroke-linecap="round"/></svg></span></td></tr><tr class="기준줄" style="--i:1"><td>벡_종류</td><td>&gt;= 0.9</td><td><strong>0.902</strong></td><td></td><td class="결과" style="--i:1"><span class="o" aria-label="통과"><svg viewBox="0 0 16 16" aria-hidden="true"><path d="M3.5 8.5l3 3 6-7" fill="none" stroke="currentColor" stroke-width="2" stroke-linecap="round" stroke-linejoin="round"/></svg></span></td></tr><tr class="기준줄" style="--i:2"><td>벡_조각</td><td>&lt;= 1.2</td><td><strong>3.406</strong></td><td></td><td class="결과" style="--i:2"><span class="x" aria-label="실패"><svg viewBox="0 0 16 16" aria-hidden="true"><path d="M4.5 4.5l7 7m0-7l-7 7" fill="none" stroke="currentColor" stroke-width="2" stroke-linecap="round"/></svg></span></td></tr><tr class="기준줄" style="--i:3"><td>벡_F1_정답</td><td>&gt;= 0.95</td><td><strong>0.842</strong></td><td></td><td class="결과" style="--i:3"><span class="x" aria-label="실패"><svg viewBox="0 0 16 16" aria-hidden="true"><path d="M4.5 4.5l7 7m0-7l-7 7" fill="none" stroke="currentColor" stroke-width="2" stroke-linecap="round"/></svg></span></td></tr></tbody></table></div><p class="주석">기준은 돌리기 전에 커밋됐다(하네스 관문이 확인). 대조는 같은 에폭.</p><h2>숫자: 이 판과 대조</h2><div class="표"><table><thead><tr><th>지표</th><th>이 판</th><th>대조</th><th>차</th></tr></thead><tbody><tr><td>벡_재현</td><td data-n="0.740">0.740</td><td></td><td class="차"></td></tr><tr><td>벡_정밀</td><td data-n="0.998">0.998</td><td></td><td class="차"></td></tr><tr><td>벡_F1</td><td data-n="0.850">0.850</td><td></td><td class="차"></td></tr><tr><td>벡_종류</td><td data-n="0.902">0.902</td><td></td><td class="차"></td></tr><tr><td>벡_조각</td><td data-n="3.406">3.406</td><td></td><td class="차"></td></tr><tr><td>벡_한선</td><td data-n="0.601">0.601</td><td></td><td class="차"></td></tr><tr><td>벡_재현_정답</td><td data-n="0.727">0.727</td><td></td><td class="차"></td></tr><tr><td>벡_정밀_정답</td><td data-n="1.000">1.000</td><td></td><td class="차"></td></tr><tr><td>벡_F1_정답</td><td data-n="0.842">0.842</td><td></td><td class="차"></td></tr><tr><td>벡_종류_정답</td><td data-n="0.903">0.903</td><td></td><td class="차"></td></tr><tr><td>벡_조각_정답</td><td data-n="3.187">3.187</td><td></td><td class="차"></td></tr><tr><td>벡_한선_정답</td><td data-n="0.645">0.645</td><td></td><td class="차"></td></tr></tbody></table></div><h2>학습 곡선</h2><figure><img src="시트.png" alt="학습 곡선 · 지표 · 12003 세 장 칸 1 주의"><figcaption>판 시트: 하네스가 판 끝에 만든 그림</figcaption></figure><h2>점검</h2><h3>연기 판</h3><div class="줄글"><div><span>첫 loss</span> <b></b></div><div><span>배치 하나 40 걸음 뒤</span> <b></b></div><div><span>VRAM</span> <b> GB</b></div></div><h3>층보기 (시험 64 부품 · 4 층)</h3><div class="줄글"><div><span>칸끼리 닮음</span> <b></b></div><div><span>빈 조각 주의 몫</span> <b></b> <span>(빈 조각 0.54)</span></div><div><span>주의 엔트로피</span> <b></b></div><div><span>출력 자리 퍼짐</span> <b></b> <span>(정답 0.148)</span></div></div><h3>탐침 (합성 그림)</h3><div class="줄글"><div><span>블록 4 구조 6 종</span> <b></b></div><div><span>블록 4 곡률 R²</span> <b></b></div><div><span>블록 3</span> <b> · </b></div></div><h2>쇼츠</h2><div class="쇼츠틀"><p class="비어">웹용 영상 없음</p><div class="쇼츠글"><p class="주석">편 101_판140벡터화 · 굽기 실패(코드 1): subprocess.CalledProcessError: Command &#x27;[&#x27;G:/art2real/out/tts/chatterbox/Scripts/python.exe&#x27;, &#x27;G:\\art2real\\원화3d\\과정\\영상05\\tts\\굽기_chatterbox.py&#x27;, &#x27;G:/art2real/out/영상05/대화/101_판140벡터화/_cb일감.json&#x27;]&#x27;  · <strong>업로드 대기</strong> · 하네스가 판 끝에 대본(claude -p) · 대본검사 · 맥락 없는 읽기 · 굽기까지</p><div class="표"><table><thead><tr><th>누구</th><th>말</th></tr></thead><tbody><tr><td class="왼">AI</td><td class="왼">왼쪽이 정답 선, 오른쪽이 만든 선이에요.</td></tr><tr><td class="왼">AI</td><td class="왼">오른쪽은 한 모서리가 여러 토막으로 끊겼어요.</td></tr><tr><td class="왼">AI</td><td class="왼">이 부품 도면에서 CAD 설계에 쓸 선을 뽑는 중이에요.</td></tr><tr><td class="왼">AI</td><td class="왼">먼저 학습시킨 모델이 도면 위 모서리에 색을 칠해요.</td></tr><tr><td class="왼">AI</td><td class="왼">계산이 그 칠을 갈림길과 끝에서 잘라 직선과 원호로 바꿔요.</td></tr><tr><td class="왼">나</td><td class="왼">모델이 칠을 덜 해서 끊긴 거네.</td></tr><tr><td class="왼">나</td><td class="왼">칠 탓인지 보게, 정답 모서리를 칠해서 계산에 넣어 봐. <strong>[정답 칠을 넣어]</strong></td></tr><tr><td class="왼">AI</td><td class="왼">빈틈없이 칠한 정답을 똑같은 계산으로 잘랐어요.</td></tr><tr><td class="왼">AI</td><td class="왼">여기 모서리 봐요. 정답 칠인데도 똑같이 토막 났어요.</td></tr><tr><td class="왼">AI</td><td class="왼">맞게 찾은 정도가 모델 칠 0.85, 정답 칠 0.84예요. <strong>[정답도 0.84]</strong></td></tr><tr><td class="왼">나</td><td class="왼">칠이 아니라 끊는 계산이 문제였네.</td></tr><tr><td class="왼">AI</td><td class="왼">이번 선 뽑기는 실패예요. 계산이 정답 칠도 토막 내요. <strong>[선 뽑기 실패]</strong></td></tr><tr><td class="왼">AI</td><td class="왼">그러니 이 계산으론 모델 칠이 괜찮은지 못 재요.</td></tr></tbody></table></div></div></div><h2>해석</h2><div class="사람"><p class="비어">아직 비어 있음. 보고.md 의 이 칸을 채우면 다시 만들 때 들어온다</p></div><h2>다음 가지</h2><div class="사람"><p class="비어">아직 비어 있음. 보고.md 의 이 칸을 채우면 다시 만들 때 들어온다</p></div><h2>재현</h2><pre>python 하네스/하네스.py --config-name 판_140벡터화</pre><p class="주석"><a href="설정.yaml">설정.yaml</a> · <a href="판정.json">판정.json</a> · <a href="보고.md">보고.md</a> · 산출 <code>G:/art2real/out/하네스/140벡터화/</code></p><h2>링크</h2><ul class="고리"><li><span>쇼츠</span><em>업로드 대기</em></li><li><span>GitHub 이슈</span><a href="https://github.com/sigongjoa/art2real/issues/12">https://github.com/sigongjoa/art2real/issues/12</a></li><li><span>커밋</span><a href="https://github.com/sigongjoa/art2real/commit/0f3c69010374f3daba9256521a0ebb2c31387412">https://github.com/sigongjoa/art2real/commit/0f3c69010374f3daba9256521a0ebb2c31387412</a></li><li><span>판 목록</span><a href="../../index.html">../../index.html</a></li></ul></main></body></html>

diff --git a/docs/index.html b/docs/index.html
@@ -8,4 +8,4 @@ h1{font-size:clamp(1.8rem,4vw,2.4rem);letter-spacing:-.02em;margin:0 0 8px}p.lea
 ul{list-style:none;margin:0;padding:0;display:grid;gap:10px}a{display:grid;grid-template-columns:auto 1fr;gap:4px 14px;align-items:baseline;padding:16px 18px;border:1px solid var(--rule);border-radius:12px;background:var(--sheet);color:inherit;text-decoration:none}
 a:hover{border-color:var(--ink)}a:focus-visible{outline:2px solid var(--ink);outline-offset:2px}strong{font-weight:600}.곁{grid-column:2;color:var(--muted);font-size:.86rem}
 .판정{grid-row:1/3;font-weight:700;font-size:.85rem;padding:4px 10px;border-radius:999px;white-space:nowrap}.통과{color:var(--pass);background:var(--pass-bg)}.실패{color:var(--fail);background:var(--fail-bg)}.탐색{color:var(--tool);background:var(--tool-bg)}
-</style></head><body><main><h1>art2real 판 목록</h1><p class="lead">목표: 임의의 이미지로부터 CAD 코드를 만든다. 판(실험) 하나마다 명제를 먼저 적고, 하네스가 돌려서 판정과 보고서를 남긴다.</p><h2>비교판</h2><ul><li><a href="비교/선판정/index.html"><span class="판정 탐색">비교판</span><strong>비김 · 선판정</strong><span class="곁">참가 3 · 2026-10-23 21:13</span></a></li></ul><h2>판</h2><ul><li><a href="판/140벡터화/보고.html"><span class="판정 탐색">탐색 — 이김 판정 없음 · 기준 못 넘음</span><strong>칠한 선 화소를 꼭짓점에서 끊어 선 목록으로 바꾼다</strong><span class="곁">판 140벡터화 · 가지 A4 · 탐색 · 2026-10-24 10:34</span></a></li><li><a href="판/139다중라벨/보고.html"><span class="판정 실패">실패</span><strong>직선과 곡선이 닿은 화소는 둘 다 정답으로 둔다</strong><span class="곁">판 139다중라벨 · 가지 A3 · 비교 · 2026-10-23 19:38</span></a></li><li><a href="판/138테뭉침/보고.html"><span class="판정 실패">실패</span><strong>사람도 못 가르는 곡면 테두리를 직선과 곡선 중에 고르라고 하지 않는다</strong><span class="곁">판 138테뭉침 · 가지 A3 · 비교 · 2026-10-23 14:27</span></a></li><li><a href="판/137전부합침/보고.html"><span class="판정 실패">실패</span><strong>가운데 층까지 모두 합쳐 곡선 옆 직선의 번짐을 줄인다</strong><span class="곁">판 137전부합침 · 가지 A3 · 비교 · 2026-10-23 13:44</span></a></li><li><a href="판/136합침/보고.html"><span class="판정 실패">실패</span><strong>얕은 층의 자리 정보와 깊은 층의 종류 정보를 합쳐 읽는다</strong><span class="곁">판 136합침 · 가지 A3 · 비교 · 2026-10-22 22:34</span></a></li><li><a href="판/135오래/보고.html"><span class="판정 실패">실패</span><strong>같은 설정으로 여섯 배 오래 학습해 결국 배우는지 본다</strong><span class="곁">판 135오래 · 가지 A3 · 비교 · 2026-10-22 21:43</span></a></li><li><a href="판/134층읽기/보고.html"><span class="판정 실패">실패</span><strong>CNN 의 층마다 같은 머리를 붙여 선 정보가 어디서 사라지는지 본다</strong><span class="곁">판 134층읽기 · 가지 A3 · 비교 · 2026-10-22 21:02</span></a></li><li><a href="판/133학습률/보고.html"><span class="판정 실패">실패</span><strong>학습률을 열 배 올려 같은 에폭 안에 더 배우게 한다</strong><span class="곁">판 133학습률 · 가지 A3 · 비교 · 2026-10-22 20:27</span></a></li><li><a href="판/132맞춤/보고.html"><span class="판정 실패">실패</span><strong>정답 선을 입력 선 화소에 맞춰 붙여서 다시 배운다</strong><span class="곁">판 132맞춤 · 가지 A3 · 비교 · 2026-10-22 20:16</span></a></li><li><a href="판/131빈가중/보고.html"><span class="판정 실패">실패</span><strong>선 없는 곳을 칠하면 벌점을 더 줘서 선을 가늘게 그리게 한다</strong><span class="곁">판 131빈가중 · 가지 A3 · 비교 · 2026-10-22 19:50</span></a></li><li><a href="판/130CNN만/보고.html"><span class="판정 실패">실패</span><strong>CNN 만 학습해서 도면의 곡선과 꼭짓점을 찾는지 본다</strong><span class="곁">판 130CNN만 · 가지 A3 · 비교 · 2026-10-22 19:31</span></a></li><li><a href="판/127재현/보고.html"><span class="판정 통과">통과</span><strong>하네스가 127 실험을 똑같이 다시 돌려 내는지 시험한다</strong><span class="곁">판 127재현 · 가지 D3 · 재현 · 2026-10-22 15:59</span></a></li></ul></main></body></html>
+</style></head><body><main><h1>art2real 판 목록</h1><p class="lead">목표: 임의의 이미지로부터 CAD 코드를 만든다. 판(실험) 하나마다 명제를 먼저 적고, 하네스가 돌려서 판정과 보고서를 남긴다.</p><h2>비교판</h2><ul><li><a href="비교/선판정/index.html"><span class="판정 탐색">비교판</span><strong>비김 · 선판정</strong><span class="곁">참가 3 · 2026-10-23 21:13</span></a></li></ul><h2>판</h2><ul><li><a href="판/140벡터화/보고.html"><span class="판정 탐색">탐색 — 이김 판정 없음 · 기준 못 넘음</span><strong>칠한 선 화소를 꼭짓점에서 끊어 선 목록으로 바꾼다</strong><span class="곁">판 140벡터화 · 가지 A4 · 탐색 · 2026-10-24 10:49</span></a></li><li><a href="판/139다중라벨/보고.html"><span class="판정 실패">실패</span><strong>직선과 곡선이 닿은 화소는 둘 다 정답으로 둔다</strong><span class="곁">판 139다중라벨 · 가지 A3 · 비교 · 2026-10-23 19:38</span></a></li><li><a href="판/138테뭉침/보고.html"><span class="판정 실패">실패</span><strong>사람도 못 가르는 곡면 테두리를 직선과 곡선 중에 고르라고 하지 않는다</strong><span class="곁">판 138테뭉침 · 가지 A3 · 비교 · 2026-10-23 14:27</span></a></li><li><a href="판/137전부합침/보고.html"><span class="판정 실패">실패</span><strong>가운데 층까지 모두 합쳐 곡선 옆 직선의 번짐을 줄인다</strong><span class="곁">판 137전부합침 · 가지 A3 · 비교 · 2026-10-23 13:44</span></a></li><li><a href="판/136합침/보고.html"><span class="판정 실패">실패</span><strong>얕은 층의 자리 정보와 깊은 층의 종류 정보를 합쳐 읽는다</strong><span class="곁">판 136합침 · 가지 A3 · 비교 · 2026-10-22 22:34</span></a></li><li><a href="판/135오래/보고.html"><span class="판정 실패">실패</span><strong>같은 설정으로 여섯 배 오래 학습해 결국 배우는지 본다</strong><span class="곁">판 135오래 · 가지 A3 · 비교 · 2026-10-22 21:43</span></a></li><li><a href="판/134층읽기/보고.html"><span class="판정 실패">실패</span><strong>CNN 의 층마다 같은 머리를 붙여 선 정보가 어디서 사라지는지 본다</strong><span class="곁">판 134층읽기 · 가지 A3 · 비교 · 2026-10-22 21:02</span></a></li><li><a href="판/133학습률/보고.html"><span class="판정 실패">실패</span><strong>학습률을 열 배 올려 같은 에폭 안에 더 배우게 한다</strong><span class="곁">판 133학습률 · 가지 A3 · 비교 · 2026-10-22 20:27</span></a></li><li><a href="판/132맞춤/보고.html"><span class="판정 실패">실패</span><strong>정답 선을 입력 선 화소에 맞춰 붙여서 다시 배운다</strong><span class="곁">판 132맞춤 · 가지 A3 · 비교 · 2026-10-22 20:16</span></a></li><li><a href="판/131빈가중/보고.html"><span class="판정 실패">실패</span><strong>선 없는 곳을 칠하면 벌점을 더 줘서 선을 가늘게 그리게 한다</strong><span class="곁">판 131빈가중 · 가지 A3 · 비교 · 2026-10-22 19:50</span></a></li><li><a href="판/130CNN만/보고.html"><span class="판정 실패">실패</span><strong>CNN 만 학습해서 도면의 곡선과 꼭짓점을 찾는지 본다</strong><span class="곁">판 130CNN만 · 가지 A3 · 비교 · 2026-10-22 19:31</span></a></li><li><a href="판/127재현/보고.html"><span class="판정 통과">통과</span><strong>하네스가 127 실험을 똑같이 다시 돌려 내는지 시험한다</strong><span class="곁">판 127재현 · 가지 D3 · 재현 · 2026-10-22 15:59</span></a></li></ul></main></body></html>

diff --git a/하네스/판/140벡터화/보고.md b/하네스/판/140벡터화/보고.md
@@ -59,31 +59,33 @@
 
 | 가지 | 종류 | 바탕 | 바꾼 손잡이 | 에폭 | git | 날짜 |
 |---|---|---|---|---|---|---|
-| A4 | 탐색 | 127 (하네스/conf/바탕.yaml) | 목표: CAD → 벡터화, 벡터화.휨문턱: None → 2.0, 벡터화.입력판: None → 137전부합침 | 10 | `1f22833` | 2026-10-24 10:34 |
+| A4 | 탐색 | 127 (하네스/conf/바탕.yaml) | 벡터화.휨문턱: None → 2.0, 목표: CAD → 벡터화, 벡터화.입력판: None → 137전부합침 | 10 | `7e1cf5f` | 2026-10-24 10:49 |
 
 ## 1. 판정: **탐색 — 이김 판정 없음 · 기준 못 넘음**
 
 | 지표 | 식 | 문턱 | 이 판 | 대조(정답선지도) | 통과 |
 |---|---|---|---|---|---|
-| 벡_F1 | >= | 0.9 | 0.191 | — | ✗ |
-| 벡_종류 | >= | 0.9 | 0.979 | — | ✓ |
-| 벡_조각 | <= | 1.2 | 0.633 | — | ✓ |
-| 벡_F1_정답 | >= | 0.95 | 0.202 | — | ✗ |
+| 벡_F1 | >= | 0.9 | 0.850 | — | ✗ |
+| 벡_종류 | >= | 0.9 | 0.902 | — | ✓ |
+| 벡_조각 | <= | 1.2 | 3.406 | — | ✗ |
+| 벡_F1_정답 | >= | 0.95 | 0.842 | — | ✗ |
 
 ## 2. 숫자 — 이 판 대 대조
 
 | 지표 | 이 판 | 대조 |
 |---|---|---|
-| 벡_재현 | 0.156 | — |
-| 벡_정밀 | 0.246 | — |
-| 벡_F1 | 0.191 | — |
-| 벡_종류 | 0.979 | — |
-| 벡_조각 | 0.633 | — |
-| 벡_재현_정답 | 0.157 | — |
-| 벡_정밀_정답 | 0.285 | — |
-| 벡_F1_정답 | 0.202 | — |
-| 벡_종류_정답 | 0.975 | — |
-| 벡_조각_정답 | 0.550 | — |
+| 벡_재현 | 0.740 | — |
+| 벡_정밀 | 0.998 | — |
+| 벡_F1 | 0.850 | — |
+| 벡_종류 | 0.902 | — |
+| 벡_조각 | 3.406 | — |
+| 벡_한선 | 0.601 | — |
+| 벡_재현_정답 | 0.727 | — |
+| 벡_정밀_정답 | 1.000 | — |
+| 벡_F1_정답 | 0.842 | — |
+| 벡_종류_정답 | 0.903 | — |
+| 벡_조각_정답 | 3.187 | — |
+| 벡_한선_정답 | 0.645 | — |
 
 ## 모델 구조
 (이 판은 구조를 안 잼)
@@ -115,19 +117,19 @@
 
 | 누구 | 말 |
 |---|---|
-| AI | 오른쪽 선이 왼쪽 정답보다 훨씬 듬성듬성해요. |
-| AI | 부품 도면에서 CAD 설계에 쓸 선을 뽑는 중이에요. |
-| AI | 먼저 모델이 도면에서 모서리를 찾아 색을 칠해요. |
-| AI | 그 칠을 갈림길과 끝에서 끊어서 직선과 원호로 바꿔요. |
-| AI | 그렇게 바꾼 선이 오른쪽이에요. |
-| 나 | 모델이 모서리를 군데군데 안 칠했네. |
-| 나 | 그럼 정답 모서리를 칠해서 끊는 계산에 넣어 봐. |
-| AI | 도면 위 정답 모서리를 빈틈없이 칠해서 똑같이 끊었어요. |
-| AI | 빈틈없는 칠인데도 모서리가 거의 다 빠져요. |
-| AI | 1이 만점인데 모델 칠은 0.19, 정답 칠도 0.20이에요. |
-| 나 | 칠이 아니라 끊는 계산이 막혔던 거네. |
-| AI | 이번엔 실패예요. 끊는 계산이 모서리를 놓쳐요. |
-| AI | 계산이 이러니 모델 칠이 괜찮은지는 아직 잴 수 없어요. |
+| AI | 왼쪽이 정답 선, 오른쪽이 만든 선이에요. |
+| AI | 오른쪽은 한 모서리가 여러 토막으로 끊겼어요. |
+| AI | 이 부품 도면에서 CAD 설계에 쓸 선을 뽑는 중이에요. |
+| AI | 먼저 학습시킨 모델이 도면 위 모서리에 색을 칠해요. |
+| AI | 계산이 그 칠을 갈림길과 끝에서 잘라 직선과 원호로 바꿔요. |
+| 나 | 모델이 칠을 덜 해서 끊긴 거네. |
+| 나 | 칠 탓인지 보게, 정답 모서리를 칠해서 계산에 넣어 봐. |
+| AI | 빈틈없이 칠한 정답을 똑같은 계산으로 잘랐어요. |
+| AI | 여기 모서리 봐요. 정답 칠인데도 똑같이 토막 났어요. |
+| AI | 맞게 찾은 정도가 모델 칠 0.85, 정답 칠 0.84예요. |
+| 나 | 칠이 아니라 끊는 계산이 문제였네. |
+| AI | 이번 선 뽑기는 실패예요. 계산이 정답 칠도 토막 내요. |
+| AI | 그러니 이 계산으론 모델 칠이 괜찮은지 못 재요. |
 
 ## 5. 해석
 <!-- 사람 칸: 아래를 채운다 · 보고서를 다시 만들어도 남는다 -->
